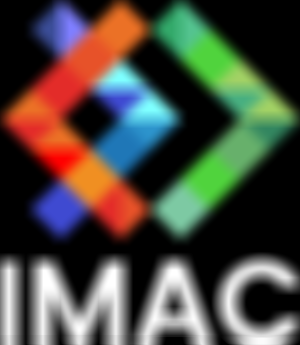
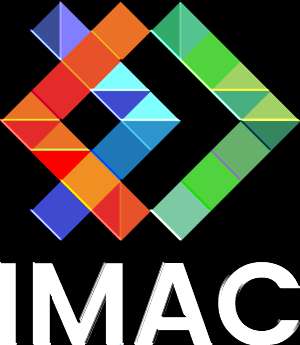
exo 24 emboss ok

diff --git a/src/main.cpp b/src/main.cpp
@@ -743,10 +743,17 @@ void exo24_boxBlur(sil::Image &image)
 
 void exo24_emboss(sil::Image &image)
 {
+    /*
     int size = 18; // ou 10
     float v = 1.f / (size * size);
     vector<vector<float>> matrice(size, vector<float>(size, v));
-    exo24(image, matrice);
+    */
+    vector<vector<float>> matrice = {
+        {-1, -1, 1},
+        {-1, 1, 1},
+        {0, 1, 0}
+    };
+    exo24(image,1 matrice);
 }
 
 
@@ -758,7 +765,7 @@ int main()
     // sil::Image image{500/*width*/, 500/*height*/};
     // TODO: modifier l'image
 
-    exo24_boxBlur(image);
+    exo24_emboss(image);
 
     image.save("output/pouet.png");
 
